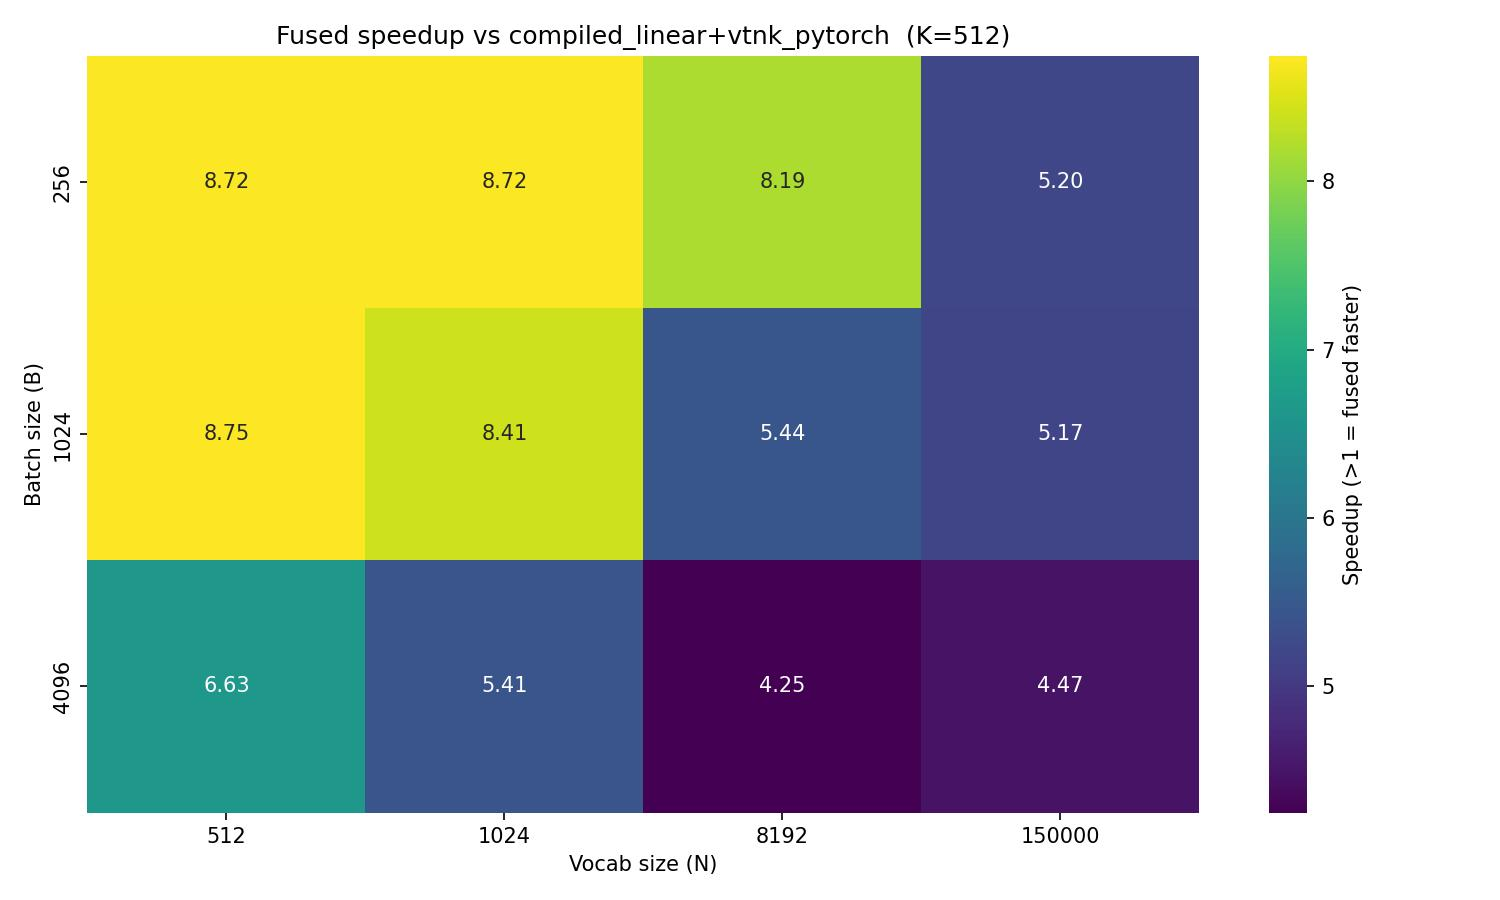
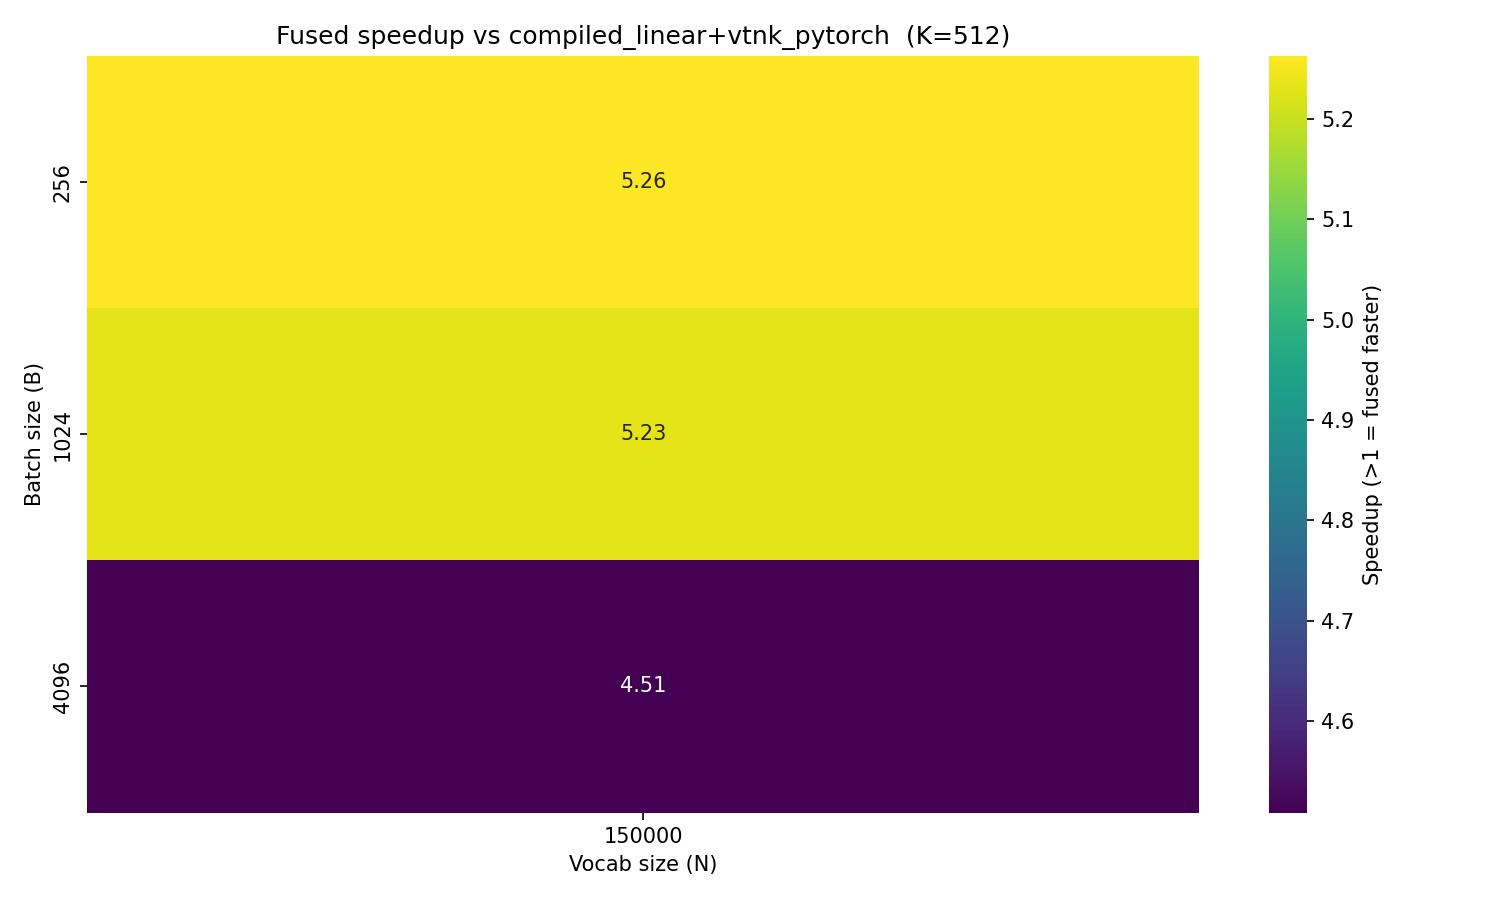
Update

diff --git a/rectokens/kernels/constrained_node_transition_cute.py b/rectokens/kernels/constrained_node_transition_cute.py
@@ -59,6 +59,7 @@ from __future__ import annotations
 
 import atexit
 import logging
+import math
 import warnings
 
 import cutlass
@@ -105,17 +106,21 @@ class _FusedTopKKernel:
     all subsequent calls bypass MLIR re-generation entirely.
     """
 
-    BLOCK_B           = 16   # batch items per thread-block (= half-warps)
-    WARP_SIZE         = 16   # threads per dot-product reduction (half-warp)
-    BRANCHES_PER_BLOCK = 16   # branches handled per block; a[batch,:] is read once
-                              # from gmem and reused across all BRANCHES_PER_BLOCK dot products
+    BLOCK_B   = 16   # batch items per thread-block (= half-warps)
+    WARP_SIZE = 16   # threads per dot-product reduction (half-warp)
+    # BRANCHES_PER_BLOCK is set to max_branches (the bucket) in __init__ so that
+    # all branches are handled in a single block, eliminating the 32× A-redundancy
+    # that arose when the branch dimension was tiled across grid_y blocks.
 
     def __init__(self, has_bias: bool, max_branches: int, B: int, K: int) -> None:
-        self._has_bias     = has_bias
-        self._max_branches = max_branches  # stable bucket; never changes per instance
-        self._B            = B             # baked into compiled kernel as Python int
-        self._K            = K             # baked into compiled kernel as Python int
-        self._jit_executor = None          # populated on first launch(), None until then
+        self._has_bias         = has_bias
+        self._max_branches     = max_branches  # stable bucket; never changes per instance
+        self._B                = B             # baked into compiled kernel as Python int
+        self._K                = K             # baked into compiled kernel as Python int
+        # 64 branch iterations × K_PER_LANE=44 = 2,816 unrolled ops — compiles quickly.
+        # Reduces grid_y from 32 to 8 (4× less A reloading vs BRANCHES_PER_BLOCK=16).
+        self.BRANCHES_PER_BLOCK = 64
+        self._jit_executor     = None          # populated on first launch(), None until then
 
     # -- host-side launcher (JIT-compiled) ----------------------------------
 
@@ -205,11 +210,10 @@ class _FusedTopKKernel:
                             k = lane + i * self.WARP_SIZE
                             logit = logit + a_cache[i] * b[col_32, k]
 
-                        # Half-warp reduction: WARP_SIZE=16, so two batch items share
-                        # one 32-thread physical warp (lanes 0–15 = local_b N,
-                        # lanes 16–31 = local_b N+1).  Offset 16 would cross batch
-                        # boundaries; use [8, 4, 2, 1] to stay within one half-warp.
-                        for shfl_offset in [8, 4, 2, 1]:
+                        # Reduce within the WARP_SIZE-wide logical lane group.
+                        # Offsets are powers of two from WARP_SIZE/2 down to 1,
+                        # keeping communication within the batch item's lane group.
+                        for shfl_offset in [self.WARP_SIZE >> s for s in range(1, int(math.log2(self.WARP_SIZE)) + 1)]:
                             logit = logit + cute.arch.shuffle_sync_down(logit, shfl_offset)
 
                         if lane == 0:

diff --git a/rectokens/kernels/constrained_node_transition.py b/rectokens/kernels/constrained_node_transition.py
@@ -69,7 +69,7 @@ def _constrained_node_transition_op(
         triton.Config({"BLOCK_B": 128, "BLOCK_N": 64, "GROUP_SIZE_M": 4}),
         triton.Config({"BLOCK_B": 128, "BLOCK_N": 128, "GROUP_SIZE_M": 8}),
     ],
-    key=["B", "N"],
+    key=["B", "N", "max_branches"],
     restore_value=["corrected_logits_ptr", "next_node_ptr", "valid_idxs_ptr"],
 )
 @triton.jit
@@ -98,7 +98,7 @@ def _constrained_node_transition_kernel(
     BLOCK_B: tl.constexpr,
     BLOCK_N: tl.constexpr,
     GROUP_SIZE_M: tl.constexpr,
-    max_branches,
+    max_branches: tl.constexpr,
 ):
     pid = tl.program_id(axis=0)
     num_pid_m = tl.cdiv(B, BLOCK_B)
@@ -184,6 +184,8 @@ _FUSED_AUTOTUNE_CONFIGS = [
     triton.Config({"BLOCK_B": 128, "BLOCK_K": 128, "BLOCK_BRANCHES": 8}),
     triton.Config({"BLOCK_B": 64, "BLOCK_K": 64, "BLOCK_BRANCHES": 16}),
     triton.Config({"BLOCK_B": 128, "BLOCK_K": 64, "BLOCK_BRANCHES": 16}),
+    #triton.Config({"BLOCK_B": 64, "BLOCK_K": 64, "BLOCK_BRANCHES": 64}),
+    #triton.Config({"BLOCK_B": 128, "BLOCK_K": 64, "BLOCK_BRANCHES": 64}),
 ]
 
 
@@ -637,7 +639,7 @@ def _fused_linear_constrained_node_transition_sampling_op(
 
 @triton.autotune(
     configs=_FUSED_AUTOTUNE_CONFIGS,
-    key=["B", "K"],
+    key=["B", "K", "max_branches"],
     restore_value=[
         "next_node_ptr",
         "valid_idxs_ptr",
@@ -855,7 +857,7 @@ def _fused_linear_constrained_node_transition_topk_op(
 
 @triton.autotune(
     configs=_FUSED_AUTOTUNE_CONFIGS,
-    key=["B", "K"],
+    key=["B", "K", "max_branches"],
     restore_value=["next_node_ptr", "valid_idxs_ptr", "branch_logits_ptr"],
 )
 @triton.jit

diff --git a/examples/scripts/benchmark/benchmark_fused_sample.py b/examples/scripts/benchmark/benchmark_fused_sample.py
@@ -10,6 +10,9 @@ Grid: B (batch size) × N (vocab / logits size). K (hidden dim) fixed.
 
 import argparse
 import os
+
+os.environ["TRITON_PRINT_AUTOTUNING"] = "1"
+
 import torch
 import torch.nn.functional as F
 import triton.testing as testing
@@ -220,7 +223,7 @@ if __name__ == "__main__":
     os.makedirs("out", exist_ok=True)
 
     B_vals = [256, 1024, 4096]
-    N_vals = [512, 1024, 8192, 150000]
+    N_vals = [150000]
 
     print(f"Benchmarking K={K}, sparsity={args.sparsity}, topk={args.topk}")
     print(f"Algorithms: {args.algorithms}")

diff --git a/examples/scripts/benchmark/benchmark_vtnk.py b/examples/scripts/benchmark/benchmark_vtnk.py
@@ -241,7 +241,7 @@ if __name__ == "__main__":
     os.makedirs("out", exist_ok=True)
 
     B_vals = [256, 1024, 4096]
-    N_vals = [512, 1024, 8192, 150000]
+    N_vals = [150000]
 
     print(f"Benchmarking K={K}, sparsity={args.sparsity}")
     print(f"Algorithms: {args.algorithms}")
